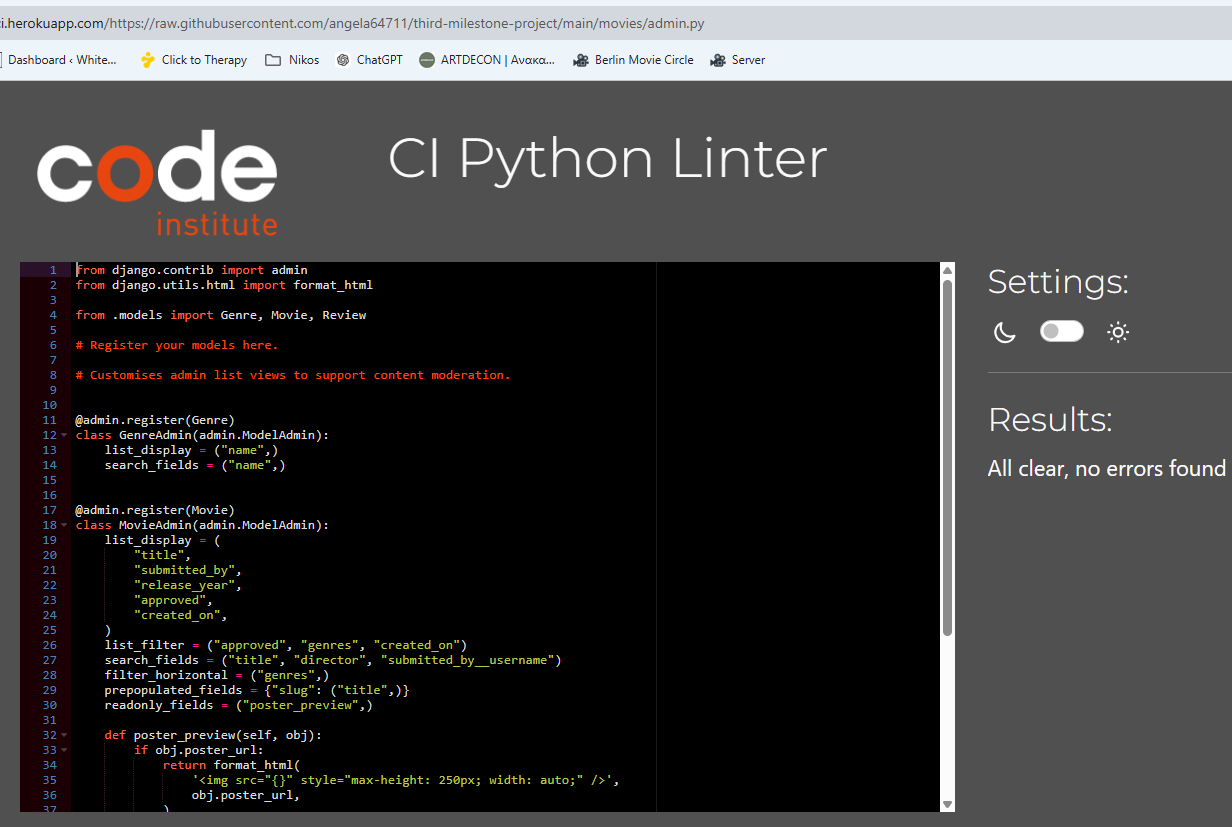
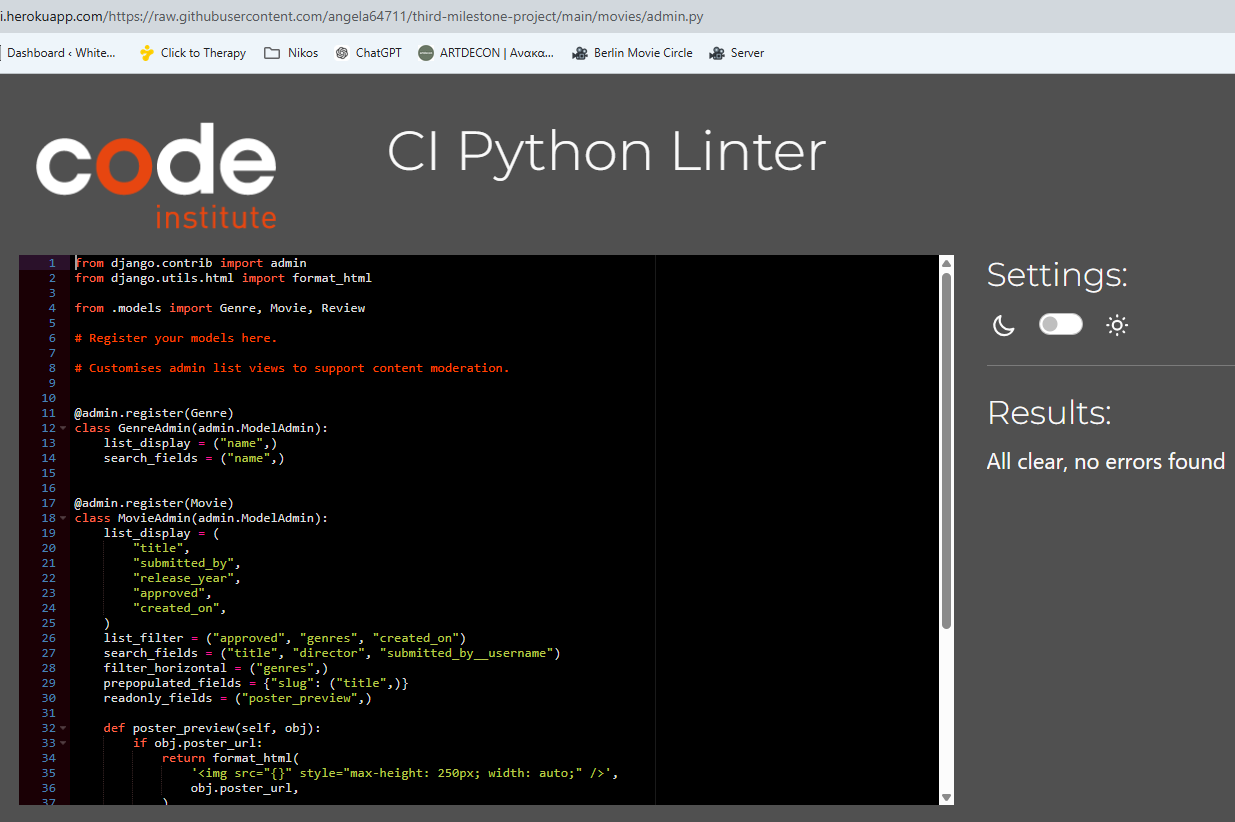
Update TESTING.md with Python validation and browser compatibility testing

diff --git a/TESTING.md b/TESTING.md
@@ -43,17 +43,39 @@ I have used the recommended [PEP8 CI Python Linter](https://pep8ci.herokuapp.com
 
 | Directory | File | URL | Screenshot | Notes |
 | --- | --- | --- | --- | --- |
-|  | [manage.py](https://github.com/angela64711/third-milestone-project/blob/main/manage.py) | [PEP8 CI Link](https://pep8ci.herokuapp.com/https://raw.githubusercontent.com/angela64711/third-milestone-project/main/manage.py) | ![screenshot](documentation/validation/py--manage.png) | ⚠️ Notes (if applicable) |
-| movie_project | [settings.py](https://github.com/angela64711/third-milestone-project/blob/main/movie_project/settings.py) | [PEP8 CI Link](https://pep8ci.herokuapp.com/https://raw.githubusercontent.com/angela64711/third-milestone-project/main/movie_project/settings.py) | ![screenshot](documentation/validation/py-movie_project-settings.png) | ⚠️ Notes (if applicable) |
-| movie_project | [urls.py](https://github.com/angela64711/third-milestone-project/blob/main/movie_project/urls.py) | [PEP8 CI Link](https://pep8ci.herokuapp.com/https://raw.githubusercontent.com/angela64711/third-milestone-project/main/movie_project/urls.py) | ![screenshot](documentation/validation/py-movie_project-urls.png) | ⚠️ Notes (if applicable) |
-| movies | [admin.py](https://github.com/angela64711/third-milestone-project/blob/main/movies/admin.py) | [PEP8 CI Link](https://pep8ci.herokuapp.com/https://raw.githubusercontent.com/angela64711/third-milestone-project/main/movies/admin.py) | ![screenshot](documentation/validation/py-movies-admin.png) | ⚠️ Notes (if applicable) |
-| movies | [forms.py](https://github.com/angela64711/third-milestone-project/blob/main/movies/forms.py) | [PEP8 CI Link](https://pep8ci.herokuapp.com/https://raw.githubusercontent.com/angela64711/third-milestone-project/main/movies/forms.py) | ![screenshot](documentation/validation/py-movies-forms.png) | ⚠️ Notes (if applicable) |
-| movies | [models.py](https://github.com/angela64711/third-milestone-project/blob/main/movies/models.py) | [PEP8 CI Link](https://pep8ci.herokuapp.com/https://raw.githubusercontent.com/angela64711/third-milestone-project/main/movies/models.py) | ![screenshot](documentation/validation/py-movies-models.png) | ⚠️ Notes (if applicable) |
-| movies | [test_forms.py](https://github.com/angela64711/third-milestone-project/blob/main/movies/test_forms.py) | [PEP8 CI Link](https://pep8ci.herokuapp.com/https://raw.githubusercontent.com/angela64711/third-milestone-project/main/movies/test_forms.py) | ![screenshot](documentation/validation/py-movies-test_forms.png) | ⚠️ Notes (if applicable) |
-| movies | [test_models.py](https://github.com/angela64711/third-milestone-project/blob/main/movies/test_models.py) | [PEP8 CI Link](https://pep8ci.herokuapp.com/https://raw.githubusercontent.com/angela64711/third-milestone-project/main/movies/test_models.py) | ![screenshot](documentation/validation/py-movies-test_models.png) | ⚠️ Notes (if applicable) |
-| movies | [test_views.py](https://github.com/angela64711/third-milestone-project/blob/main/movies/test_views.py) | [PEP8 CI Link](https://pep8ci.herokuapp.com/https://raw.githubusercontent.com/angela64711/third-milestone-project/main/movies/test_views.py) | ![screenshot](documentation/validation/py-movies-test_views.png) | ⚠️ Notes (if applicable) |
-| movies | [urls.py](https://github.com/angela64711/third-milestone-project/blob/main/movies/urls.py) | [PEP8 CI Link](https://pep8ci.herokuapp.com/https://raw.githubusercontent.com/angela64711/third-milestone-project/main/movies/urls.py) | ![screenshot](documentation/validation/py-movies-urls.png) | ⚠️ Notes (if applicable) |
-| movies | [views.py](https://github.com/angela64711/third-milestone-project/blob/main/movies/views.py) | [PEP8 CI Link](https://pep8ci.herokuapp.com/https://raw.githubusercontent.com/angela64711/third-milestone-project/main/movies/views.py) | ![screenshot](documentation/validation/py-movies-views.png) | ⚠️ Notes (if applicable) |
+|  | [manage.py](https://github.com/angela64711/third-milestone-project/blob/main/manage.py) | [PEP8 CI Link](https://pep8ci.herokuapp.com/https://raw.githubusercontent.com/angela64711/third-milestone-project/main/manage.py) | ![screenshot](documentation/validation/py--manage.png) | Pass |
+| movie_project | [settings.py](https://github.com/angela64711/third-milestone-project/blob/main/movie_project/settings.py) | [PEP8 CI Link](https://pep8ci.herokuapp.com/https://raw.githubusercontent.com/angela64711/third-milestone-project/main/movie_project/settings.py) | ![screenshot](documentation/validation/py-movie_project-settings.png) | Pass - Django default long lines handled with # noqa |
+| movie_project | [urls.py](https://github.com/angela64711/third-milestone-project/blob/main/movie_project/urls.py) | [PEP8 CI Link](https://pep8ci.herokuapp.com/https://raw.githubusercontent.com/angela64711/third-milestone-project/main/movie_project/urls.py) | ![screenshot](documentation/validation/py-movie_project-urls.png) | Pass |
+| movies | [admin.py](https://github.com/angela64711/third-milestone-project/blob/main/movies/admin.py) | [PEP8 CI Link](https://pep8ci.herokuapp.com/https://raw.githubusercontent.com/angela64711/third-milestone-project/main/movies/admin.py) | ![screenshot](documentation/validation/py-movies-admin.png) | Pass |
+| movies | [forms.py](https://github.com/angela64711/third-milestone-project/blob/main/movies/forms.py) | [PEP8 CI Link](https://pep8ci.herokuapp.com/https://raw.githubusercontent.com/angela64711/third-milestone-project/main/movies/forms.py) | ![screenshot](documentation/validation/py-movies-forms.png) | Pass - long validation messages and placeholders reformatted |
+| movies | [models.py](https://github.com/angela64711/third-milestone-project/blob/main/movies/models.py) | [PEP8 CI Link](https://pep8ci.herokuapp.com/https://raw.githubusercontent.com/angela64711/third-milestone-project/main/movies/models.py) | ![screenshot](documentation/validation/py-movies-models.png) | Pass - limited # noqa used for long Django model fields |
+| movies | [test_forms.py](https://github.com/angela64711/third-milestone-project/blob/main/movies/test_forms.py) | [PEP8 CI Link](https://pep8ci.herokuapp.com/https://raw.githubusercontent.com/angela64711/third-milestone-project/main/movies/test_forms.py) | ![screenshot](documentation/validation/py-movies-test_forms.png) | Pass - long test strings reformatted |
+| movies | [test_models.py](https://github.com/angela64711/third-milestone-project/blob/main/movies/test_models.py) | [PEP8 CI Link](https://pep8ci.herokuapp.com/https://raw.githubusercontent.com/angela64711/third-milestone-project/main/movies/test_models.py) | ![screenshot](documentation/validation/py-movies-test_models.png) | Pass |
+| movies | [test_views.py](https://github.com/angela64711/third-milestone-project/blob/main/movies/test_views.py) | [PEP8 CI Link](https://pep8ci.herokuapp.com/https://raw.githubusercontent.com/angela64711/third-milestone-project/main/movies/test_views.py) | ![screenshot](documentation/validation/py-movies-test_views.png) | Pass - long test client calls reformatted |
+| movies | [urls.py](https://github.com/angela64711/third-milestone-project/blob/main/movies/urls.py) | [PEP8 CI Link](https://pep8ci.herokuapp.com/https://raw.githubusercontent.com/angela64711/third-milestone-project/main/movies/urls.py) | ![screenshot](documentation/validation/py-movies-urls.png) | Pass |
+| movies | [views.py](https://github.com/angela64711/third-milestone-project/blob/main/movies/views.py) | [PEP8 CI Link](https://pep8ci.herokuapp.com/https://raw.githubusercontent.com/angela64711/third-milestone-project/main/movies/views.py) | ![screenshot](documentation/validation/py-movies-views.png) | Pass - long messages and conditions reformatted |
+
+
+
+## Browser Compatibility
+
+I've tested my deployed project on multiple browsers to check for compatibility issues.
+
+| Page | Chrome | Firefox | Edge | Notes |
+| --- | --- | --- | --- | --- |
+| Home | ![screenshot](documentation/browsers/chrome-home.png) | ![screenshot](documentation/browsers/firefox-home.png) | ![screenshot](documentation/browsers/edge-home.png) | Works as expected |
+| Browse Movies | ![screenshot](documentation/browsers/chrome-browse.png) | ![screenshot](documentation/browsers/firefox-browse.png) | ![screenshot](documentation/browsers/edge-browse.png) | Works as expected |
+| Movie Detail | ![screenshot](documentation/browsers/chrome-detail.png) | ![screenshot](documentation/browsers/firefox-detail.png) | ![screenshot](documentation/browsers/edge-detail.png) | Works as expected |
+| Submit Movie | ![screenshot](documentation/browsers/chrome-submit.png) | ![screenshot](documentation/browsers/firefox-submit.png) | ![screenshot](documentation/browsers/edge-submit.png) | Works as expected |
+| Edit Movie | ![screenshot](documentation/browsers/chrome-edit-movie.png) | ![screenshot](documentation/browsers/firefox-edit-movie.png) | ![screenshot](documentation/browsers/edge-edit-movie.png) | Works as expected |
+| My Activity | ![screenshot](documentation/browsers/chrome-my-activity.png) | ![screenshot](documentation/browsers/firefox-my-activity.png) | ![screenshot](documentation/browsers/edge-my-activity.png) | Works as expected |
+| Edit Review | ![screenshot](documentation/browsers/chrome-edit-review.png) | ![screenshot](documentation/browsers/firefox-edit-review.png) | ![screenshot](documentation/browsers/edge-edit-review.png) | Works as expected |
+| Login | ![screenshot](documentation/browsers/chrome-login.png) | ![screenshot](documentation/browsers/firefox-login.png) | ![screenshot](documentation/browsers/edge-login.png) | Works as expected |
+| Logout | ![screenshot](documentation/browsers/chrome-logout.png) | ![screenshot](documentation/browsers/firefox-logout.png) | ![screenshot](documentation/browsers/edge-logout.png) | Works as expected |
+| Register | ![screenshot](documentation/browsers/chrome-register.png) | ![screenshot](documentation/browsers/firefox-register.png) | ![screenshot](documentation/browsers/edge-register.png) | Works as expected |
+| 404 | ![screenshot](documentation/browsers/chrome-404.png) | ![screenshot](documentation/browsers/firefox-404.png) | ![screenshot](documentation/browsers/edge-404.png) | Works as expected |
+
+
 
 
 